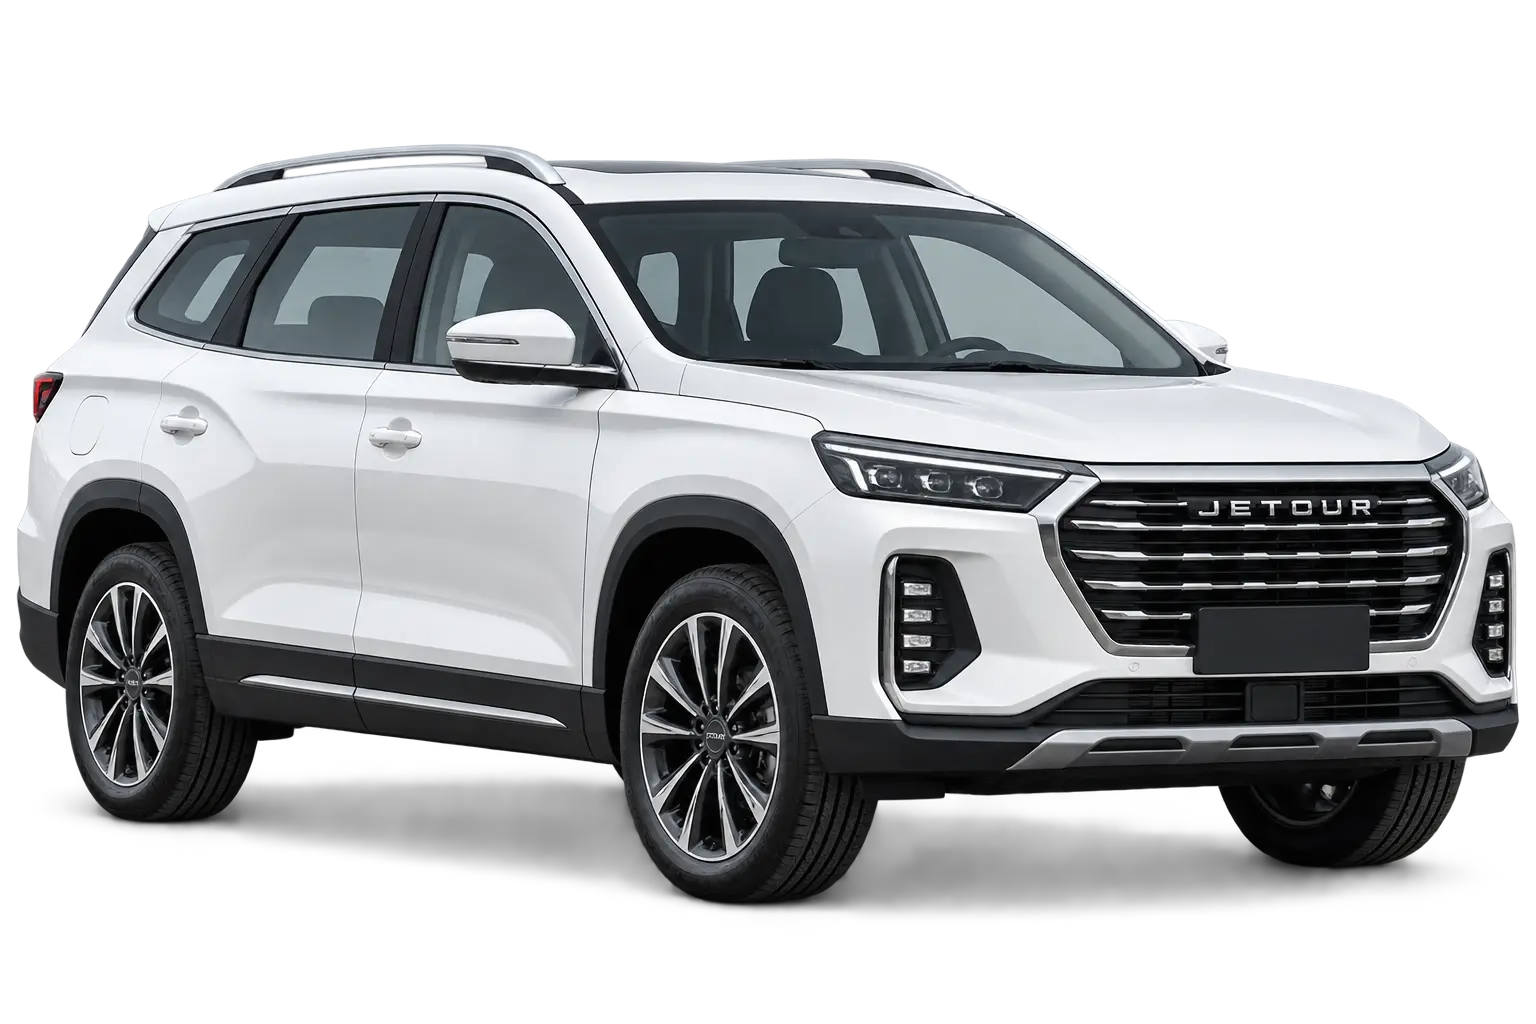
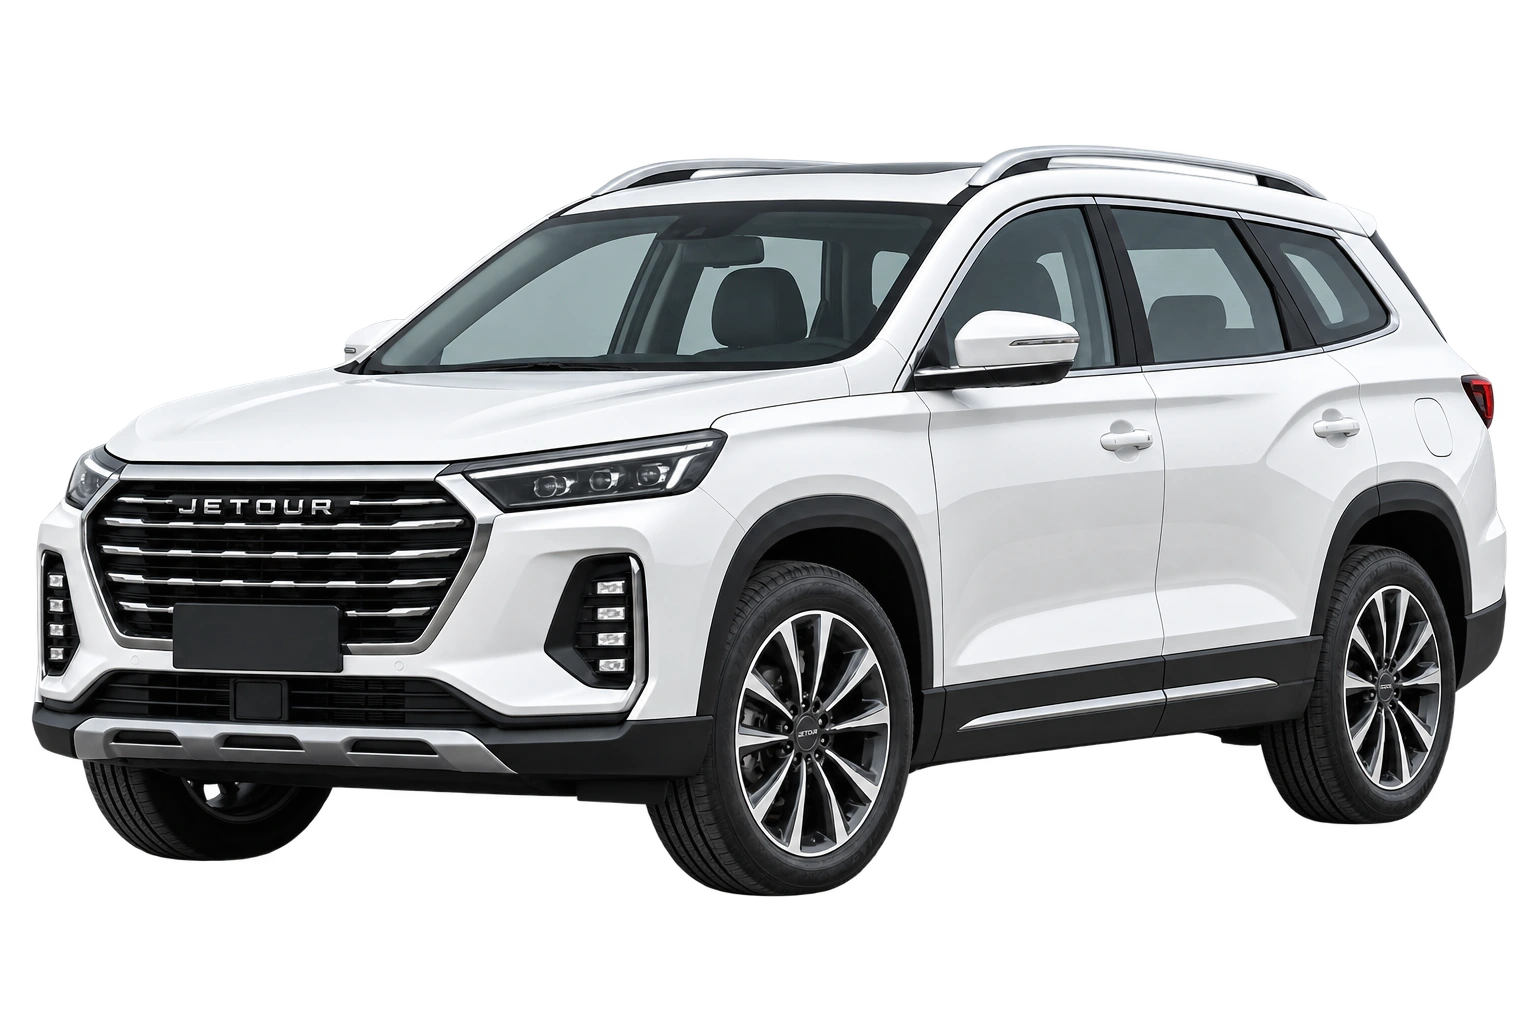
fix(drive): align Range Rover and X90 image direction

diff --git a/docs/catalog/drive-september27-release.md b/docs/catalog/drive-september27-release.md
@@ -49,3 +49,7 @@ The image/name-only final browser follow-up passed AR/EN at1440/390: all30 uniqu
 5. Recovery is a reviewed forward change: deactivate new offers without deleting referenced rows, restore the nine snapshotted prior catalogue rows/version and matching app; preserve additive RPC compatibility and historical requests/quotes.
 
 **Production migration / business-data mutation / merge / deploy: NONE.** Prepared SQL and local proof are not a Production publication claim.
+
+## Follow-up: direction correction after CEO observation
+
+The prior claim that all30 images faced left was incorrect: Jetour X90 and the beige/green full-size Range Rovers faced right. Only these three image assets were re-rendered facing left, preserving paint/model/trim with readable non-mirrored lettering. All30 images were visually reviewed again in the updated contact sheet; alpha,1536×1024 dimensions, unique hashes and positive subject margins verified. No application/SQL/pricing changes. Prior browser evidence covers layout/loading before this asset-only delta; no new Browser PASS is claimed. Final review target is updated on Task/PR after push.
